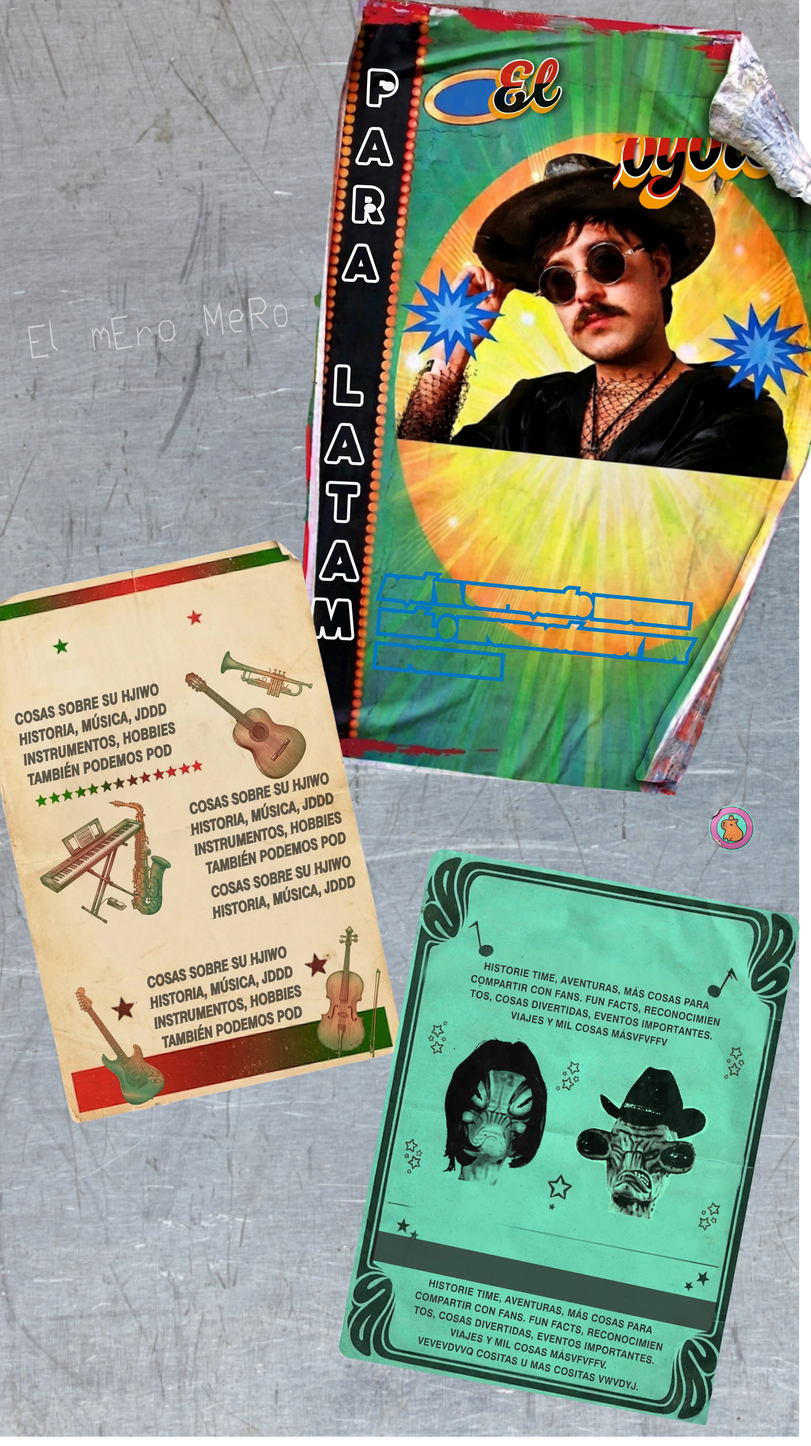
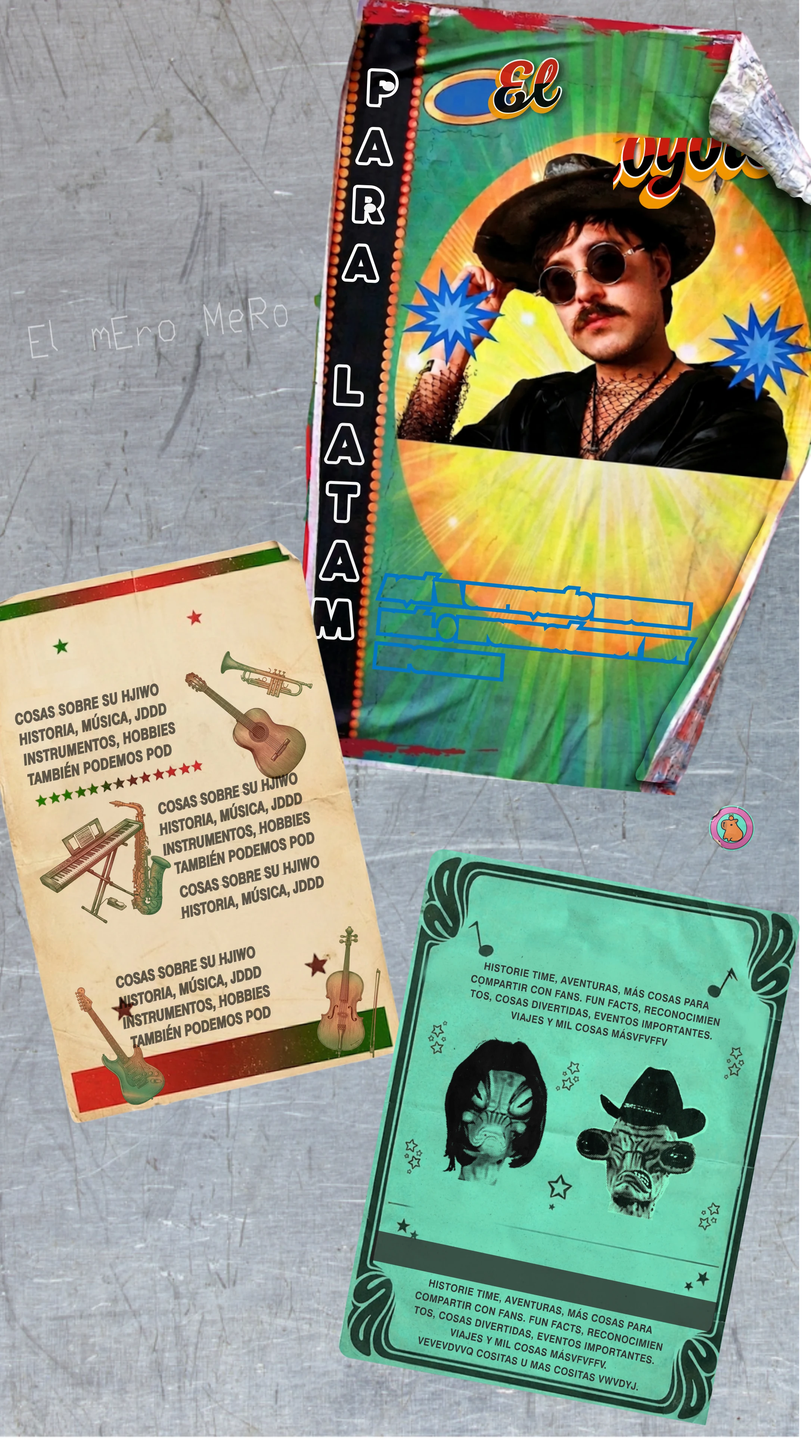
🐺 Huey móvil 'Sobre mí': correcciones de Ani (póster1+2)
- PARA LATAM: Poppins 900 (sustituto cercano de Cocogoose, ya cargado via Google Fonts)
- Resumen: scaleX .7->.8 para que el texto coincida en largo con el recuadro azul
- Póster 2: título/subtítulo recorridos a la izquierda; bloques COSAS indentados alineados (-42u)

Changed region(s): [[0.1542, 0.5312, 0.4319, 0.7188]]

diff --git a/preview/sitio/index.html b/preview/sitio/index.html
@@ -11,7 +11,7 @@
     <title>El Huey Coyote</title>
     <link rel="preconnect" href="https://fonts.googleapis.com">
     <link rel="preconnect" href="https://fonts.gstatic.com" crossorigin>
-    <link href="https://fonts.googleapis.com/css2?family=Anton&family=Outfit:wght@500;600;700;800&family=Poppins:wght@400;500;600;700;800&family=Quicksand:ital,wght@0,500;0,600;1,500;1,600&family=Permanent+Marker&family=Rock+Salt&family=Shadows+Into+Light+Two&family=Special+Elite&family=VT323&display=swap" rel="stylesheet">
+    <link href="https://fonts.googleapis.com/css2?family=Anton&family=Outfit:wght@500;600;700;800&family=Poppins:wght@400;500;600;700;800;900&family=Quicksand:ital,wght@0,500;0,600;1,500;1,600&family=Permanent+Marker&family=Rock+Salt&family=Shadows+Into+Light+Two&family=Special+Elite&family=VT323&display=swap" rel="stylesheet">
     <link rel="stylesheet" href="https://use.typekit.net/yzd3dtz.css">
     <style>
         * { margin: 0; padding: 0; box-sizing: border-box; }
@@ -1572,10 +1572,10 @@
 
         <!-- ¿YA ME CONOCES? (sección 2 — Sobre mí) -->
         <section id="sobre-mi">
-            <img class="bg" src="assets/conoces/conoces-fondo-notext.webp?v=0708liv3" alt="¿Ya me conoces? — Sobre El Huey Coyote" loading="lazy" decoding="async">
+            <img class="bg" src="assets/conoces/conoces-fondo-notext.webp?v=0708liv4" alt="¿Ya me conoces? — Sobre El Huey Coyote" loading="lazy" decoding="async">
             <h2 class="seo-only">¿Ya me conoces? — Sobre el Huey Coyote</h2>
 
-            <!-- Capa de TEXTO VIVO (SVG) — todo el texto es <text> vivo/editable; el fondo (pósters+recuadro+mero mero) es imagen -->
+            <!-- Capa de TEXTO VIVO (SVG) — todo editable; fondo = imagen sin texto -->
             <svg class="conoce-live" xmlns="http://www.w3.org/2000/svg" xmlns:xlink="http://www.w3.org/1999/xlink" version="1.1" viewBox="0 0 1086.3 1936.5">
   
   <defs>
@@ -1767,7 +1767,7 @@
       }
 
       .cv41, .cv42 {
-        font-family: "swiss-721-bt";
+        font-family: 'Poppins';
       }
 
       .cv41, .cv42, .cv20 {
@@ -1882,7 +1882,9 @@
       .cv37 {
         stroke: #f2f2f2;
       }
-    </style>
+    
+      .cv41, .cv42 { font-weight: 900; }
+</style>
     <clipPath id="clippath">
       </clipPath>
     <clipPath id="clippath-1">
@@ -1969,7 +1971,7 @@
       </g>
     </g>
     <g id="Texto">
-      <text class="cv18" transform="translate(6.8 904.9) rotate(-12.8) scale(.8 1)"><tspan x="0" y="0" xml:space="preserve">UN  T&#205;TULO  COOL</tspan></text>
+      <text class="cv18" transform="translate(-5.2 904.9) rotate(-12.8) scale(.8 1)"><tspan x="0" y="0" xml:space="preserve">UN  T&#205;TULO  COOL</tspan></text>
       <g class="cv26">
         </g>
       <g class="cv26">
@@ -1979,10 +1981,10 @@
       <text class="cv25" transform="translate(103.9152 1302.5701) rotate(-12.7542) scale(.7593 1)"><tspan x="0" y="0">COSAS SOBRE SU HJIWOHFEHIHIHIHI HISTORIARI</tspan></text>
       <g class="cv26">
         </g>
-      <text class="cv17" transform="translate(12.7 938.1) rotate(-12.4) scale(.8 1)"><tspan x="0" y="0">AQU&#205; UN SUBT&#205;TULO</tspan></text>
-      <text class="cv16" transform="translate(514.2 797) rotate(5.5) scale(.7 1) skewX(.3)"><tspan class="cv49"><tspan x="0" y="0">AQU&#205; VA UN PEQUE&#209;O RESUMEN</tspan></tspan><tspan class="cv49"><tspan x="0" y="46">DE &#201;L O INFORMACI&#211;N MUY MUY </tspan></tspan><tspan class="cv51"><tspan x="0" y="92">IMPORTANTE</tspan></tspan></text>
+      <text class="cv17" transform="translate(0.7 938.1) rotate(-12.4) scale(.8 1)"><tspan x="0" y="0">AQU&#205; UN SUBT&#205;TULO</tspan></text>
+      <text class="cv16" transform="translate(514.2 797) rotate(5.5) scale(.8 1) skewX(.3)"><tspan class="cv49"><tspan x="0" y="0">AQU&#205; VA UN PEQUE&#209;O RESUMEN</tspan></tspan><tspan class="cv49"><tspan x="0" y="46">DE &#201;L O INFORMACI&#211;N MUY MUY </tspan></tspan><tspan class="cv51"><tspan x="0" y="92">IMPORTANTE</tspan></tspan></text>
       <g>
-        <text class="cv20" transform="translate(514.2 797) rotate(5.5) scale(.7 1) skewX(.3)"><tspan class="cv49"><tspan x="0" y="0">AQU&#205; VA UN PEQUE&#209;O RESUMEN</tspan></tspan><tspan class="cv49"><tspan x="0" y="46">DE &#201;L O INFORMACI&#211;N MUY MUY </tspan></tspan><tspan class="cv51"><tspan x="0" y="92">IMPORTANTE</tspan></tspan></text>
+        <text class="cv20" transform="translate(514.2 797) rotate(5.5) scale(.8 1) skewX(.3)"><tspan class="cv49"><tspan x="0" y="0">AQU&#205; VA UN PEQUE&#209;O RESUMEN</tspan></tspan><tspan class="cv49"><tspan x="0" y="46">DE &#201;L O INFORMACI&#211;N MUY MUY </tspan></tspan><tspan class="cv51"><tspan x="0" y="92">IMPORTANTE</tspan></tspan></text>
         <g>
           </g>
       </g>
